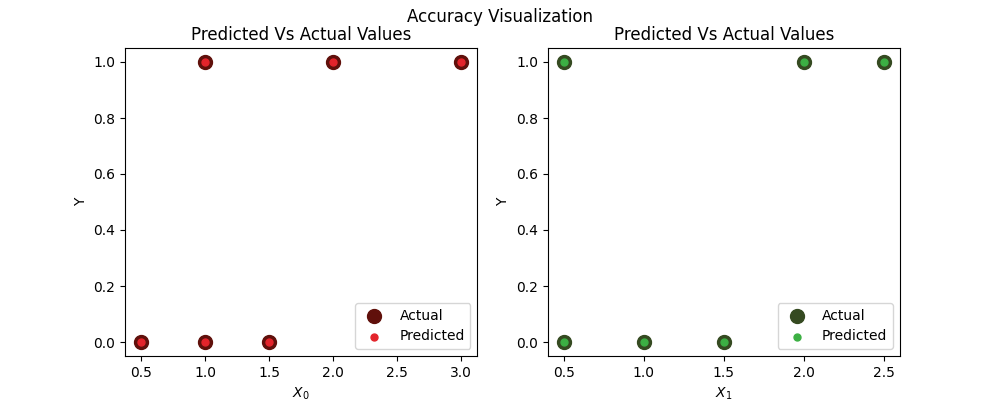
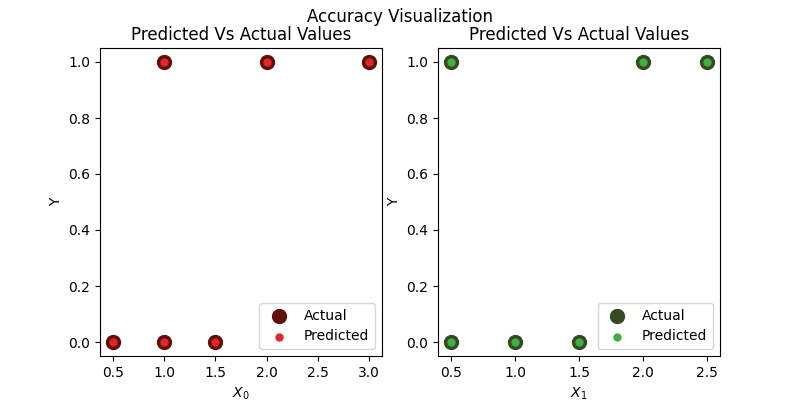
Change image size.

diff --git a/main.py b/main.py
@@ -121,7 +121,7 @@ class LogisticRegressor:
         return y_pred
 
     def visualize_results(self):
-        fig, axes = plt.subplots(1, 2, figsize=(10, 4))
+        fig, axes = plt.subplots(1, 2, figsize=(8, 4))
         for axis_num, axis in enumerate(axes):
             axis.scatter(self.X_train[0:, axis_num], self.y_train, color=X_COLORS[axis_num][0], s=100, label='Actual')
             axis.scatter(self.X_train[0:, axis_num], self.make_predictions(), color=X_COLORS[axis_num][1], s=25,
